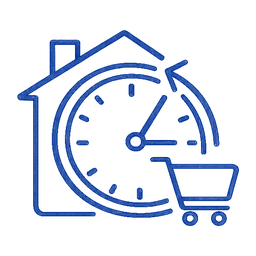
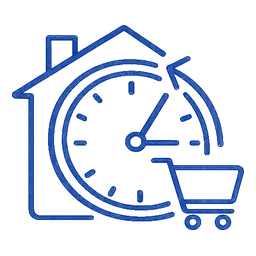
feat(home): иконки преимуществ единого размера и крупнее + Новинки/Спецпредложения горизонтальной листалкой
- Иконки полосы преимуществ нормализованы по высоте (единый визуальный размер в ряду) и увеличены (82px/62px).
- Секции Новинки/Спецпредложения: сетка → горизонтальная листалка (свайп/скролл, scroll-snap).
  На телефоне карточки в один ряд (~2 + краешек следующей), без переноса на много строк.
- В ленты берём часть товаров (12) — чтобы было что листать.

Changed region(s): [[0.0312, 0.0938, 0.9688, 0.9062]]

diff --git a/frontend/src/app/globals.css b/frontend/src/app/globals.css
@@ -233,7 +233,7 @@ button, input, textarea, select { font-family: inherit; }
   color: var(--accent);
 }
 .trust-item .ic svg { width: 44px; height: 44px; }
-.trust-item .ic img { width: 64px; height: 64px; object-fit: contain; display: block; }
+.trust-item .ic img { width: 82px; height: 82px; object-fit: contain; display: block; }
 .trust-item .big {
   font-size: 23px;
   font-weight: 700;
@@ -669,7 +669,19 @@ code { font-family: ui-monospace, SFMono-Regular, Menlo, monospace; font-size: .
 .catalog-grid { display: grid; grid-template-columns: repeat(4, 1fr); gap: var(--s-6); }
 
 /* Ряды «Новинки» / «Спецпредложения» на главной — сетка карточек (5 в ряд) */
-.promo-grid { display: grid; grid-template-columns: repeat(5, minmax(0, 1fr)); gap: var(--s-4); }
+/* Новинки/Спецпредложения — горизонтальная листалка (свайп/скролл), а не сетка */
+.promo-grid {
+  display: flex;
+  gap: var(--s-4);
+  overflow-x: auto;
+  overflow-y: hidden;
+  scroll-snap-type: x proximity;
+  -webkit-overflow-scrolling: touch;
+  scrollbar-width: thin;
+  padding-bottom: var(--s-2);
+  scroll-padding-left: var(--s-1);
+}
+.promo-grid > * { flex: 0 0 auto; width: 220px; scroll-snap-align: start; }
 .pcard__promo {
   position: absolute; top: var(--s-3); left: var(--s-3); z-index: 2;
   display: inline-flex; align-items: center; justify-content: center;
@@ -815,7 +827,7 @@ textarea.form-input { height: auto; min-height: 90px; padding: var(--s-3) var(--
   .home-about { grid-template-columns: 1fr; gap: var(--s-5); }
   .quick-cats { grid-template-columns: repeat(4, minmax(0, 1fr)); }
   .catalog-grid { grid-template-columns: repeat(3, 1fr); }
-  .promo-grid { grid-template-columns: repeat(3, 1fr); }
+  .promo-grid > * { width: 200px; }
 }
 @media (max-width: 768px) {
   .container { padding: 0 var(--s-4); }
@@ -839,7 +851,7 @@ textarea.form-input { height: auto; min-height: 90px; padding: var(--s-3) var(--
     padding-top: var(--s-6); padding-bottom: var(--s-6); }
   .trust-item { min-height: 0; padding: var(--s-3); gap: var(--s-2); border-radius: var(--r-md); }
   .trust-item .ic svg { width: 34px; height: 34px; }
-  .trust-item .ic img { width: 50px; height: 50px; }
+  .trust-item .ic img { width: 62px; height: 62px; }
   .trust-item .big { font-size: 17px; }
   .trust-item .small { font-size: 11px; line-height: 1.2; }
   .cat-grid { grid-template-columns: 1fr 1fr; gap: var(--s-3); }
@@ -873,7 +885,9 @@ textarea.form-input { height: auto; min-height: 90px; padding: var(--s-3) var(--
   .filters::-webkit-scrollbar { display: none; }
   .result-count { display: none; }
   .catalog-grid { grid-template-columns: 1fr 1fr; gap: var(--s-3); }
-  .promo-grid { grid-template-columns: 1fr 1fr; gap: var(--s-3); }
+  .promo-grid { gap: var(--s-3); }
+  /* На телефоне карточки в один ряд со свайпом: ~2 в экране + краешек следующей (подсказка) */
+  .promo-grid > * { width: 44vw; }
   .pcard__name { font-size: var(--t-sm); }
   /* Регионы-бегущая строка: на узком экране шире затухание по краям, чтобы плитки
      не выглядели резко обрубленными */

diff --git a/frontend/src/app/page.tsx b/frontend/src/app/page.tsx
@@ -91,9 +91,10 @@ export default async function HomePage() {
   const saleIds = categories.filter((c) => (c.name || "").toLowerCase().includes("распродаж")).map((c) => c.id);
   try {
     const [n, s] = await Promise.all([
-      getProducts({ page_size: 5, with_photo: true, sort: "name" }),
+      // В ленты берём часть товаров (листаются горизонтально)
+      getProducts({ page_size: 12, with_photo: true, sort: "name" }),
       // Спецпредложения — из «РАСПРОДАЖА»; фото не требуем (у этих товаров его может не быть)
-      getProducts({ page_size: 5, sort: "name", category_id: saleIds.length ? saleIds.join(",") : "__none__" }),
+      getProducts({ page_size: 12, sort: "name", category_id: saleIds.length ? saleIds.join(",") : "__none__" }),
     ]);
     novinki = n.items;
     special = s.items;
